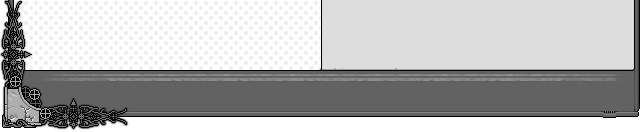
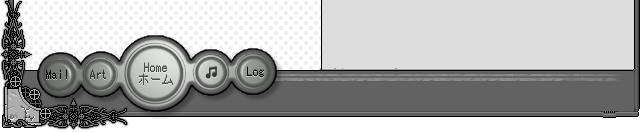
.

Changed region(s): [[0.0311, 0.2424, 0.4348, 0.8788]]

diff --git a/ui/ui.js b/ui/ui.js
@@ -12,11 +12,11 @@ function logMap(){
   const blogList = '<h4>'+ blogPosts[0] +'</h4><ul><li>'+ blogPosts[1] +'</li><li>'+ blogPosts[2] +'</li><li>'+ blogPosts[3] +'</li><li>'+ blogPosts[4] +'</li><li>'+ blogPosts[5] +'</li><li>'+ blogPosts[6] +'</li><li>'+ blogPosts[7] +'</li><li>'+ blogPosts[8] +'</li></ul>';
   const fashionList = '<h4>'+ fashionPosts[0] +'</h4><ul><li>'+ fashionPosts[1] +'</li><li>'+ fashionPosts[2] +'</li><li>'+ fashionPosts[3] +'</li><li>'+ fashionPosts[4] +'</li><li>'+ fashionPosts[5] +'</li><li>'+ fashionPosts[6] +'</li><li>'+ fashionPosts[7] + '</li></ul>';
   const luchinoShrineList = '<h4>'+ luchinoShrinePosts[0] +'</h4><ul><li>'+ luchinoShrinePosts[1] +'</li><li>'+ luchinoShrinePosts[2] +'</li><li>'+ luchinoShrinePosts[3] +'</li><li>'+ luchinoShrinePosts[4] +'</li><li>'+ luchinoShrinePosts[5] +'</ul>';
-  document.write('<div><h4><a href="https://' + siteURL + '/">Landing</a></h4><h4><a href="https://' + siteURL + '/log/update/">Update Log</a> / <a href="https://' + siteURL + '/rss/rss.xml" target="_blank" download>RSS Feed</a></h4>'+ blogList + fashionList  + luchinoShrineList + '<h4><a href="https://' + siteURL + '/music/">私の音 My Music</a></h4><h4><a href="https://' + siteURL + '/about">About The Site</a></h4></div>');
+  document.write('<div><h4><a href="https://' + siteURL + '/">Landing</a></h4><h4><a href="https://' + siteURL + '/log/update/">Update Log</a> / <a href="https://' + siteURL + '/rss/rss.xml" target="_blank" download>RSS Feed</a></h4>'+ blogList + fashionList  + luchinoShrineList + '<h4><a href="https://' + siteURL + '/music/">私の音 My Music</a></h4><h4><a href="https://' + siteURL + '/about">About The Site</a></h4></div><img src="https://' + siteURL + '/ui/images/snail.gif" alt="">');
 }
 
-function rssList(){
-  document.write('<hr><center><a href="https://' + siteURL + '/log/update/">update log</a> | <a href="https://' + siteURL + '/log/">personal log</a> | <a href="https://' + siteURL + '/about">about me</a> | <a href="https://' + siteURL + '/rss/rss.xml">subscribe to the rss</a></center>');
+function txtMenu(){
+  document.write('<hr><center><a href="https://' + siteURL + '">home</a> | <a href="https://' + siteURL + '/log/update/">update log</a> | <a href="https://' + siteURL + '/music/">my music</a> | <a href="https://' + siteURL + '/log/">personal log</a> | <a href="https://' + siteURL + '/about">about me</a> | <a href="https://' + siteURL + '/rss/rss.xml">subscribe to the rss</a></center>');
 }
 
 function loadAsset(){
@@ -33,6 +33,7 @@ function loadAsset(){
 	break;
 	case 3:
 	  assetPiece = "bottom"
+	  txtMenu();
 	  document.write('</section></div><section id="' + assetPiece + '"><img src="https://' + siteURL + '/ui/layout_pieces/layout_' + assetPiece + '_transparent.gif" alt="" usemap="#' + assetPiece + '_links"></section>');
 	break;
   }

diff --git a/log/visitorsofsidbury.html b/log/visitorsofsidbury.html
@@ -47,7 +47,7 @@
 <div>
   <p>[entry in progress, can't write until i'm done with a convention]</p>
 </div>
-<h3>2025.06.02: Pretty Boy Of Goety "Infernal Sin"</h3>
+<h3>2025.06.02: Pretty Boy Of Goetia "Infernal Sin"</h3>
 <div>
   <p>I missed out on not just <a href="https://id5.fandom.com/wiki/Crystalline" target="_blank">Reptilian's limited costume</a> but also <a href="https://id5.fandom.com/wiki/Spring_Heated_Wine" target="_blank">Professor's limited costume</a> and I am a little devastated that I basically missed both chances for a complete factional collection. I embraced my losses, and kept playing since I fell for Luchino even without his cosmetics in the picture.</p>
   <p>But then an Ashes Of Memory announcement was posted on the official networks; Hell broke loose with the Marquis of duality, Infernal Sin.</p>
@@ -134,7 +134,7 @@
 	</li>
   </ul>
 </div>
-<script>rssList(); siteArea = 3;loadAsset();</script>
+<script>siteArea = 3;loadAsset();</script>
 </div>
 </body>
 </html>

diff --git a/index.html b/index.html
@@ -63,7 +63,6 @@
 <hr>
 <center><img src="ui/buttons/breakcorefan.jpg" alt="breakcore fan" title="I made this!"> <img src="ui/buttons/poweredbydebian.gif" alt=""></center>
 <center><a href="https://notepad-plus-plus.org/" target="_blank"><img src="ui/buttons/notepadpp_button.gif" alt="Notepad++" title="Made with Notepad++"></a> <img src="ui/buttons/linux_button.gif" alt="Switch to Linux." title="Switch to Linux."> <a href='https://store.steampowered.com/app/3146520/WEBFISHING/' target="_blank"><img src="ui/buttons/webfishing.gif" alt="Webfishing" title="Gone webfishing! Button design by tsugato @ neocities.org"></a> <img src="ui/buttons/partofneocities.png" alt="Part of Neocities.org" title="Certified Neocities User."></center>
-<center><img src="ui/images/snail.gif" alt=""></center>
 <script>siteArea = 3;loadAsset();</script>
 </div>
 </body>

diff --git a/log/fanfic/refleterop6.html b/log/fanfic/refleterop6.html
@@ -118,7 +118,6 @@
 	<hr>
 	<p>Closing notes: What began as a joke about what Orpheus and Frederick were up to at the stables, I'm not really sure what prompted me to write this. With AOM's lack of player-view theatrics and context, I went ahead and took the reins filling out whatever history I saw between Orpheus and Frederick.</p>
 	<p>Hopefully I can write more about Frederick's "disappearance," and get graphic with the upcoming fic.</p>
-	<hr>
 <script>siteArea = 3;loadAsset();</script>
 </div>
 </body>

diff --git a/log/bookmarks.html b/log/bookmarks.html
@@ -52,7 +52,7 @@
 </table>
 <hr>
 <center><a href="https://www.hplovecraft.com/" target="_blank"><img src="../ui/buttons/hplabutn.gif" alt="HP Lovecraft Archive"></a> <a href="https://thegreenherring.neocities.org/"><img src="../ui/buttons/tgh-button.PNG" alt="The Green Herring"></a></center>
-<script>rssList();siteArea = 3;loadAsset();</script>
+<script>siteArea = 3;loadAsset();</script>
 </div>
 </body>
 </html>

diff --git a/log/update/index.html b/log/update/index.html
@@ -23,7 +23,7 @@
 <script>siteArea = 1;loadAsset();logMap();</script>
 <script>siteArea = 2;loadAsset();</script>
 <script src="https://rss.bloople.net/?url=https%3A%2F%2F0ekekddddd.github.io%2Frss%2Frss.xml&showtitle=false&type=js"></script>
-<script>rssList();siteArea = 3;loadAsset();</script>
+<script>siteArea = 3;loadAsset();</script>
 </div>
 </body>
 </html>

diff --git a/log/template.html b/log/template.html
@@ -14,7 +14,7 @@
 <body>
 <script>siteArea = 1;loadAsset();logMap();</script>
 <script>siteArea = 2;loadAsset();</script>
-<script>rssList();siteArea = 3;loadAsset();</script>
+<script>siteArea = 3;loadAsset();</script>
 </div>
 </body>
 </html>
